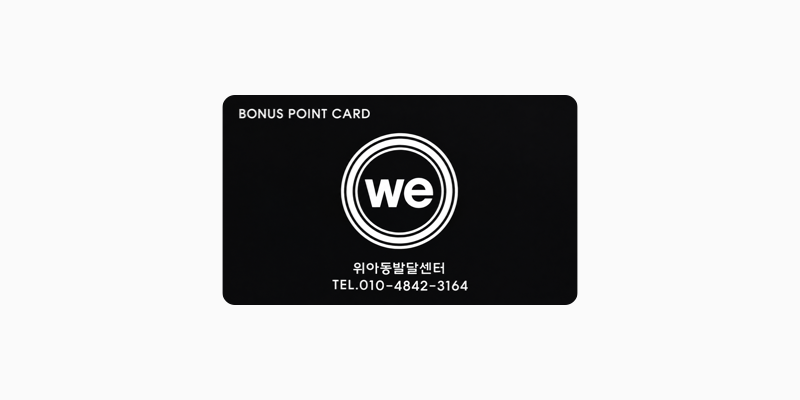
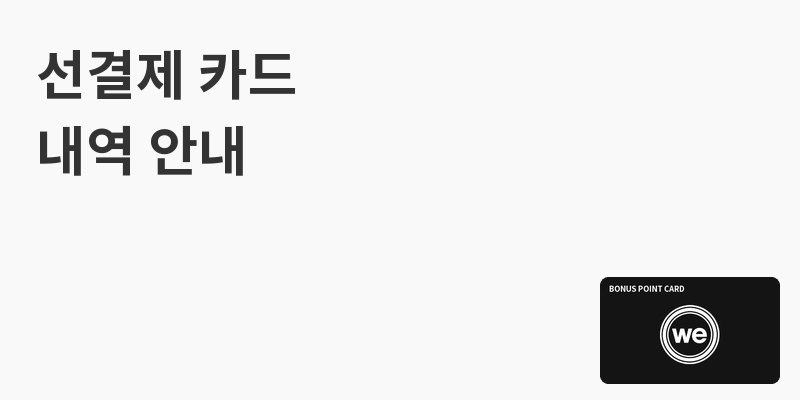
알림톡 템플릿 심사 올리기 화면, 선결제 카드 텍스트혼합형 그림, 빈타임 있을 때 고정 아이 살리기 막기

diff --git a/src/app/admin/alimtalk-templates/page.tsx b/src/app/admin/alimtalk-templates/page.tsx
@@ -1,0 +1,158 @@
+'use client';
+
+import { useCallback, useEffect, useMemo, useState } from 'react';
+import { useAdmin } from '@/components/AdminContext';
+import { supabase } from '@/lib/supabaseClient';
+import { getMessageTemplates, toRows, type MessageSpec } from '@/lib/messages';
+import { getAlimtalkTemplateIds, saveAlimtalkTemplateId } from '@/lib/leave';
+import { askConfirm, showAlert } from '@/lib/dialog';
+
+// 알림톡 템플릿 심사 올리기 (관리자) — 메시지 모양 화면에 적어 둔 알림들을 솔라피에 한 번에 등록하고 카카오 검수 요청.
+// 솔라피 템플릿 이름 끝의 [알림 종류] 로 사이트 알림과 짝을 짓는다. 통과(APPROVED)하면 템플릿 ID를 자동 저장 → 바로 보낼 수 있다.
+// 수업 일정 알림은 수업 개수(1~8개)마다 따로 — lesson_tomorrow_1 ~ lesson_tomorrow_8.
+
+type Row = { key: string; label: string; spec: MessageSpec };
+type Remote = { templateId: string; name: string; status: string; dateCreated?: string; comment: string };
+
+const STATUS: Record<string, { label: string; cls: string }> = {
+  USING: { label: '사용 중', cls: 'bg-[#ecfdf5] text-[#047857]' },
+  APPROVED: { label: '통과', cls: 'bg-[#ecfdf5] text-[#047857]' },
+  INSPECTING: { label: '심사 중', cls: 'bg-[#eff6ff] text-[#1d4ed8]' },
+  PENDING: { label: '등록만 됨', cls: 'bg-[#fffbeb] text-[#92400e]' },
+  REJECTED: { label: '반려', cls: 'bg-[#fef2f2] text-[#b91c1c]' },
+  NONE: { label: '안 올림', cls: 'bg-[#f4f4f5] text-[#71717a]' },
+};
+
+const nameOf = (r: Row) => `${r.label} [${r.key}]`;
+
+async function api(method: 'GET' | 'POST', body?: unknown) {
+  const { data } = await supabase.auth.getSession();
+  const res = await fetch('/api/alimtalk/templates', {
+    method,
+    headers: { 'Content-Type': 'application/json', ...(data.session ? { Authorization: `Bearer ${data.session.access_token}` } : {}) },
+    ...(body ? { body: JSON.stringify(body) } : {}),
+  });
+  const j = await res.json().catch(() => ({}));
+  if (!res.ok) throw new Error(j.error ?? `오류 ${res.status}`);
+  return j;
+}
+
+/** 수업 일정 알림 → 1개용 ~ 8개용 */
+function expand(rows: Row[]): Row[] {
+  return rows.flatMap(r => {
+    if (r.key !== 'lesson_tomorrow') return [r];
+    const head = r.spec.items.filter(i => !/^수업\s*\d+$/.test(i.name.trim()));
+    return Array.from({ length: 8 }, (_, k) => {
+      const n = k + 1;
+      const lessons = Array.from({ length: n }, (_, j) => ({ name: `수업 ${j + 1}`, value: `#{수업${j + 1}}` }));
+      return { key: `${r.key}_${n}`, label: `${r.label} ${n}개`, spec: { ...r.spec, items: [...head, ...lessons] } };
+    });
+  });
+}
+
+export default function AlimtalkTemplatesPage() {
+  const { isAdmin } = useAdmin();
+  const [rows, setRows] = useState<Row[]>([]);
+  const [remote, setRemote] = useState<Remote[]>([]);
+  const [savedIds, setSavedIds] = useState<Record<string, string>>({});
+  const [picked, setPicked] = useState<Set<string>>(new Set());
+  const [loading, setLoading] = useState(true);
+  const [busy, setBusy] = useState(false);
+  const [failed, setFailed] = useState('');
+
+  const load = useCallback(async () => {
+    setLoading(true); setFailed('');
+    try {
+      const saved = await getMessageTemplates().catch(() => []);
+      setRows(expand(toRows(saved).map(r => ({ key: r.id, label: r.label, spec: r.spec }))));
+      const [ids, list] = await Promise.all([getAlimtalkTemplateIds().catch(() => ({} as Record<string, string>)), api('GET')]);
+      const tpls = list.templates as Remote[];
+      // 통과했는데 아직 저장 안 된 ID → 저장 (이제 그 알림은 자동으로 간다)
+      for (const t of tpls) {
+        const key = t.name.match(/\[([\w-]+)\]\s*$/)?.[1];
+        if (key && t.status === 'APPROVED' && ids[key] !== t.templateId && !tpls.some(o => o.name === t.name && o.status === 'APPROVED' && (o.dateCreated ?? '') > (t.dateCreated ?? ''))) {
+          await saveAlimtalkTemplateId(key, t.templateId).then(() => { ids[key] = t.templateId; }).catch(() => {});
+        }
+      }
+      setSavedIds({ ...ids }); setRemote(tpls);
+    } catch (e) {
+      setFailed((e as Error).message);
+    } finally {
+      setLoading(false);
+    }
+  }, []);
+  useEffect(() => { if (isAdmin) load(); }, [isAdmin, load]);
+
+  // 알림마다 상태 — 저장된 ID가 있으면 사용 중, 없으면 솔라피에 올린 것 중 가장 최근 것
+  const statusOf = useMemo(() => {
+    const m: Record<string, { code: string; remote?: Remote }> = {};
+    for (const r of rows) {
+      const mine = remote.filter(t => t.name.endsWith(`[${r.key}]`)).sort((a, b) => (b.dateCreated ?? '').localeCompare(a.dateCreated ?? ''));
+      if (savedIds[r.key]) m[r.key] = { code: 'USING', remote: remote.find(t => t.templateId === savedIds[r.key]) };
+      else m[r.key] = mine[0] ? { code: mine[0].status, remote: mine[0] } : { code: 'NONE' };
+    }
+    return m;
+  }, [rows, remote, savedIds]);
+  const canPick = (key: string) => ['NONE', 'REJECTED'].includes(statusOf[key]?.code);
+
+  if (!isAdmin) return <p className="text-center text-[14px] text-[#aaa] py-32">관리자만 볼 수 있는 화면이에요.</p>;
+
+  const pickable = rows.filter(r => canPick(r.key));
+  const toggle = (key: string) => setPicked(p => { const n = new Set(p); if (n.has(key)) n.delete(key); else n.add(key); return n; });
+
+  const submit = async () => {
+    const list = rows.filter(r => picked.has(r.key) && canPick(r.key));
+    if (!list.length) return;
+    if (!(await askConfirm(`템플릿 ${list.length}개를 솔라피에 등록하고 카카오 검수를 요청할까요?\n\n${list.map(r => `· ${r.label}`).join('\n')}\n\n검수는 영업일 1~3일 걸려요. 통과하면 이 화면에서 자동으로 저장돼요.`, '심사 올리기'))) return;
+    setBusy(true);
+    try {
+      const { results } = await api('POST', { items: list.map(r => ({ key: r.key, name: nameOf(r), spec: r.spec })) }) as { results: { key: string; ok: boolean; error?: string }[] };
+      const bad = results.filter(r => !r.ok);
+      const label = (k: string) => rows.find(r => r.key === k)?.label ?? k;
+      await showAlert(`심사 요청 ${results.length - bad.length}개 완료${bad.length ? `\n\n안 된 것 ${bad.length}개:\n${bad.map(b => `· ${label(b.key)} — ${b.error}`).join('\n')}` : ''}`);
+      setPicked(new Set());
+      await load();
+    } catch (e) {
+      await showAlert(`올리지 못했어요.\n${(e as Error).message}`);
+    } finally {
+      setBusy(false);
+    }
+  };
+
+  return (
+    <div className="max-w-[920px] mx-auto px-5 pt-8 pb-16 fade-up">
+      <h1 className="display-heading mb-2">알림톡 심사 올리기</h1>
+      <p className="text-[12px] text-[#888] mb-6 leading-[1.8]">
+        메시지 모양 화면에 적어 둔 알림을 솔라피에 등록하고 카카오 검수를 한 번에 요청해요.<br />
+        카테고리·We 로고 그림은 이미 통과한 &ldquo;시간표 신청 확정/취소&rdquo; 템플릿과 똑같이 올라가요. 통과하면 이 화면을 열 때 ID가 자동으로 저장돼요.
+      </p>
+      {failed && <p className="mb-4 whitespace-pre-line text-[13px] rounded-xl px-4 py-3 bg-[#fef2f2] text-[#b91c1c]">{failed}</p>}
+      <div className="flex items-center gap-3 mb-3">
+        <button type="button" disabled={loading || !pickable.length} onClick={() => setPicked(picked.size === pickable.length ? new Set() : new Set(pickable.map(r => r.key)))}
+          className="text-[12px] px-3 py-1 rounded-full border border-[#ddd] disabled:opacity-40">{picked.size && picked.size === pickable.length ? '모두 풀기' : '안 올린 것 모두 고르기'}</button>
+        <button type="button" onClick={load} disabled={loading} className="text-[12px] px-3 py-1 rounded-full border border-[#ddd] disabled:opacity-40">{loading ? '불러오는 중…' : '상태 새로 보기'}</button>
+        <button type="button" onClick={submit} disabled={busy || !picked.size}
+          className="ml-auto text-[13px] px-4 py-2 rounded-full bg-[var(--brand)] text-white disabled:opacity-40">{busy ? '올리는 중…' : `선택한 ${picked.size}개 심사 올리기`}</button>
+      </div>
+      <ul className="divide-y divide-[#eee] border-y border-[#eee]">
+        {rows.map(r => {
+          const st = statusOf[r.key] ?? { code: 'NONE' };
+          const badge = STATUS[st.code] ?? { label: st.code, cls: 'bg-[#f4f4f5] text-[#71717a]' };
+          return (
+            <li key={r.key} className="py-3 flex items-start gap-3">
+              <input type="checkbox" className="mt-1" disabled={!canPick(r.key)} checked={picked.has(r.key)} onChange={() => toggle(r.key)} />
+              <div className="flex-1 min-w-0">
+                <p className="text-[14px]">{r.label}</p>
+                <p className="text-[11px] text-[#aaa] truncate">{r.spec.title} · 항목 {r.spec.items.length}줄{r.spec.image === 'card' ? ' · 선결제 카드 그림' : r.spec.image === 'logo' ? ' · We 로고' : ''}{r.spec.button.name ? ` · 버튼 ${r.spec.button.name}` : ''}</p>
+                {st.code === 'REJECTED' && st.remote?.comment && <p className="mt-1 whitespace-pre-line text-[12px] text-[#b91c1c]">반려 사유: {st.remote.comment}</p>}
+                {st.code === 'PENDING' && <p className="mt-1 text-[12px] text-[#92400e]">솔라피에 등록만 되고 검수 요청이 안 됐어요 — 솔라피 콘솔에서 [검수 요청]을 눌러 주세요.</p>}
+              </div>
+              <span className={`shrink-0 text-[11px] px-2 py-0.5 rounded-full ${badge.cls}`}>{badge.label}</span>
+            </li>
+          );
+        })}
+      </ul>
+      <p className="mt-4 text-[11px] text-[#aaa] leading-[1.8]">반려된 알림은 메시지 모양 화면에서 고친 뒤, 여기서 다시 골라 올리면 돼요.</p>
+    </div>
+  );
+}

diff --git a/src/app/api/alimtalk/templates/route.ts b/src/app/api/alimtalk/templates/route.ts
@@ -1,0 +1,104 @@
+import { supabaseFor } from '@/lib/supabaseServer';
+import { solapiFetch, solapiReady } from '@/lib/solapi';
+import type { MessageSpec } from '@/lib/messages';
+
+// 알림톡 템플릿 심사 (관리자만)
+//   GET  — 솔라피에 올린 템플릿 목록(이름 · 상태 · 반려 사유)
+//   POST — { items: [{ key, name, spec }] } 를 솔라피에 등록하고 바로 카카오 검수 요청
+// 카테고리 · 메시지 유형 · We 로고 그림은 이미 통과한 "시간표 신청 확정/취소" 템플릿(booking_result)을 그대로 따른다.
+// 선결제 카드 그림은 사이트의 /alimtalk/card.png 를 솔라피에 올려서 쓴다.
+
+type Item = { key: string; name: string; spec: MessageSpec };
+type Tpl = {
+  templateId: string; name: string; status: string; categoryCode?: string; messageType?: string; emphasizeType?: string;
+  imageId?: string | null; header?: string | null; highlight?: { title?: string; description?: string; imageId?: string | null } | null;
+  comments?: { content?: string; dateCreated?: string }[]; dateCreated?: string;
+};
+
+async function guard(request: Request) {
+  const db = supabaseFor(request);
+  const { data: isAdmin } = await db.rpc('is_admin');
+  if (!isAdmin) return { db, error: Response.json({ error: '관리자만 할 수 있어요' }, { status: 403 }) };
+  if (!solapiReady()) return { db, error: Response.json({ error: '솔라피 키가 없어요 — 실제 사이트(we-center.vercel.app)에서 해 주세요' }, { status: 400 }) };
+  return { db, error: null };
+}
+
+const errText = (d: { errorMessage?: string; message?: string; errorCode?: string }) => d?.errorMessage ?? d?.message ?? d?.errorCode ?? '알 수 없는 오류';
+
+export async function GET(request: Request) {
+  const { error } = await guard(request);
+  if (error) return error;
+  const list: Tpl[] = [];
+  let next = '';
+  for (let i = 0; i < 10; i++) {
+    const r = await solapiFetch(`/kakao/v2/templates?limit=100${next ? `&startKey=${encodeURIComponent(next)}` : ''}`);
+    if (!r.ok) return Response.json({ error: errText(r.data) }, { status: 502 });
+    list.push(...((r.data.templateList ?? []) as Tpl[]));
+    next = r.data.nextKey ?? '';
+    if (!next) break;
+  }
+  return Response.json({
+    templates: list.map(t => ({
+      templateId: t.templateId, name: t.name, status: t.status, dateCreated: t.dateCreated,
+      comment: [...(t.comments ?? [])].reverse().find(c => c.content)?.content ?? '',
+    })),
+  });
+}
+
+export async function POST(request: Request) {
+  const { db, error } = await guard(request);
+  if (error) return error;
+  const { items } = (await request.json().catch(() => ({}))) as { items?: Item[] };
+  if (!items?.length) return Response.json({ error: '올릴 템플릿을 골라 주세요' }, { status: 400 });
+
+  // 기준 = 이미 통과한 booking_result 템플릿
+  const { data: refRow } = await db.from('alimtalk_templates').select('template_id').eq('id', 'booking_result').maybeSingle();
+  if (!refRow?.template_id) return Response.json({ error: '통과한 "시간표 신청 확정/취소" 템플릿 ID가 저장돼 있어야 해요 (테스트 보내기 화면에서 [ID 저장])' }, { status: 400 });
+  const ref = await solapiFetch(`/kakao/v2/templates/${refRow.template_id}`);
+  if (!ref.ok) return Response.json({ error: `기준 템플릿을 못 읽었어요 — ${errText(ref.data)}` }, { status: 502 });
+  const base = ref.data as Tpl;
+  const logoImageId = base.imageId ?? base.highlight?.imageId ?? null;
+
+  // 선결제 카드 그림 — 필요할 때 한 번만 올린다
+  let cardImageId: string | null = null;
+  const cardImage = async () => {
+    if (cardImageId) return cardImageId;
+    const png = await fetch(new URL('/alimtalk/card.png', request.url), { cache: 'no-store' });
+    if (!png.ok) throw new Error('선결제 카드 그림(/alimtalk/card.png)을 못 읽었어요');
+    const file = Buffer.from(await png.arrayBuffer()).toString('base64');
+    const up = await solapiFetch('/storage/v1/files', { method: 'POST', body: { file, type: 'ATA', name: 'prepaid-card.png' } });
+    if (!up.ok || !up.data.fileId) throw new Error(`카드 그림 올리기 실패 — ${errText(up.data)}`);
+    cardImageId = up.data.fileId as string;
+    return cardImageId;
+  };
+
+  const results: { key: string; ok: boolean; templateId?: string; error?: string }[] = [];
+  for (const it of items) {
+    try {
+      const s = it.spec;
+      const imageId = s.image === 'card' ? await cardImage() : s.image === 'logo' ? logoImageId : null;
+      const body = {
+        channelId: process.env.SOLAPI_PFID,
+        name: it.name,
+        content: s.body,
+        categoryCode: base.categoryCode,
+        messageType: base.messageType ?? 'BA',
+        emphasizeType: 'ITEM_LIST',
+        ...(base.header ? { header: s.title } : { highlight: { title: s.title, description: s.sub } }),
+        item: { list: s.items.filter(i => i.name.trim() && i.value.trim()).map(i => ({ title: i.name, description: i.value })) },
+        ...(imageId ? { imageId } : {}),
+        buttons: s.button.name.trim() ? [{ buttonType: 'WL', buttonName: s.button.name, linkMo: s.button.url, linkPc: s.button.url }] : [],
+      };
+      const made = await solapiFetch('/kakao/v2/templates', { method: 'POST', body });
+      if (!made.ok || !made.data.templateId) { results.push({ key: it.key, ok: false, error: `등록 실패 — ${errText(made.data)}` }); continue; }
+      const templateId = made.data.templateId as string;
+      const insp = await solapiFetch(`/kakao/v2/templates/${templateId}/inspection`, {
+        method: 'PUT', body: { comment: '소아재활센터 이용 보호자에게 보내는 수업·이용 안내(정보성) 메시지입니다.' },
+      });
+      results.push(insp.ok ? { key: it.key, ok: true, templateId } : { key: it.key, ok: false, templateId, error: `등록은 됐지만 검수 요청 실패 — ${errText(insp.data)}` });
+    } catch (e) {
+      results.push({ key: it.key, ok: false, error: (e as Error).message });
+    }
+  }
+  return Response.json({ results });
+}

diff --git a/src/components/TimetableView.tsx b/src/components/TimetableView.tsx
@@ -968,6 +968,7 @@ export default function TimetableView({ testChildName, fixedCenter }: { testChil
           onClose={() => setEditing(null)}
           onSave={(input, weekly) => stage(editing, input, weekly)}
           onRestoreCancel={mode === 'day' ? () => restoreCancel(editing) : undefined}
+          openBusy={mode === 'day' && editing.side === 'fixed' && !['empty', 'none'].includes(cellOf(view.open, editing.teacher.id, editing.time).status)}
         /></Portal>
       )}
 
@@ -1129,7 +1130,7 @@ function ChildPicker({ picking, kids, onPick, onSave, onMore, onClose }: {
   );
 }
 
-function CellEditor({ editing, methods, mode, dayLabel, kids, onClose, onSave, onRestoreCancel }: {
+function CellEditor({ editing, methods, mode, dayLabel, kids, onClose, onSave, onRestoreCancel, openBusy }: {
   editing: Editing;
   /** 이 센터에서 쓰는 결제 (수색 굳센 / 의정부 장맞춤) */
   methods: typeof PAY_METHODS;
@@ -1141,14 +1142,18 @@ function CellEditor({ editing, methods, mode, dayLabel, kids, onClose, onSave, o
   onSave: (input: CellInput | 'reset', from?: boolean) => void;
   /** 보호자가 취소한 수업 되돌리기 (날짜별 화면) */
   onRestoreCancel?: () => void;
+  /** 날짜별 고정 칸 — 같은 시간 빈타임에 이미 수업(아이·?·x)이 있으면 고정 아이를 다시 살릴 수 없다 */
+  openBusy?: boolean;
 }) {
+  // 빈타임에 수업이 있는데 고정 아이를 살리려 할 때
+  const blockedByOpen = () => showAlert('같은 시간 빈타임에 다른 수업이 있어서 고정 아이 수업을 살릴 수 없어요.\n먼저 빈타임 칸을 비운 뒤 다시 해 주세요.');
   const { teacher, time, side, cell } = editing;
   // 보호자가 마이페이지에서 취소한 칸 — 줄 + "취소 · 보호자"
   const guardianCancelled = cell.status === 'child' && cell.moved && !!cell.note?.startsWith('취소');
   const restoreBox = guardianCancelled && onRestoreCancel ? (
     <div className="rounded-lg bg-[#fef2f2] px-3 py-2.5 space-y-2">
       <p className="text-[12px] leading-[1.7] text-[#b91c1c]">{cell.note?.includes('보호자') ? '보호자가 마이페이지에서 취소한 수업이에요.' : '취소된 수업이에요(빈타임에 다른 수업을 넣어 취소됨).'} 되돌린 뒤 [스케줄 변경 완료]를 눌러야 반영돼요. (취소할 때 지워진 '선택' 결제방식은 다시 골라 주세요)</p>
-      <button onClick={onRestoreCancel} className="text-[13px] px-3 py-1.5 rounded-full border border-[#b91c1c] text-[#b91c1c] bg-white hover:bg-[#fff5f5]">취소 되돌리기 (취소 전으로)</button>
+      <button onClick={() => (openBusy ? blockedByOpen() : onRestoreCancel?.())} className="text-[13px] px-3 py-1.5 rounded-full border border-[#b91c1c] text-[#b91c1c] bg-white hover:bg-[#fff5f5]">취소 되돌리기 (취소 전으로)</button>
     </div>
   ) : null;
   // 이름 칸은 "이름숫자"(동명이인 구분)로 보여 주고 고른다 — 저장할 땐 이름과 숫자를 나눠 둔 명단 아이로
@@ -1230,7 +1235,7 @@ function CellEditor({ editing, methods, mode, dayLabel, kids, onClose, onSave, o
             </button>
             {/* 이 날만 결석 — 고정 수업은 그대로, 그날 칸에만 결석(x) */}
             {mode === 'day' && cell.status === 'child' && !guardianCancelled && (
-              <button onClick={() => onSave({ status: 'child', childId: cell.childId ?? null, name: cell.name, payment: cell.payment, kind: cell.kind ?? null, absent: !cell.absent, moved: cell.moved, note: cell.note })}
+              <button onClick={() => (cell.absent && openBusy ? blockedByOpen() : onSave({ status: 'child', childId: cell.childId ?? null, name: cell.name, payment: cell.payment, kind: cell.kind ?? null, absent: !cell.absent, moved: cell.moved, note: cell.note }))}
                 className={`${chip} ${cell.absent ? 'border-[#ddd] text-[#555]' : 'border-[#a1a1aa] text-[#52525b]'}`}>
                 {cell.absent ? '결석 취소' : '이 날만 결석'}
               </button>

diff --git a/src/lib/solapi.ts b/src/lib/solapi.ts
@@ -5,7 +5,8 @@ import { createHmac, randomBytes } from 'node:crypto';
 //   SOLAPI_PFID                        — 연동한 카카오 채널(발신 프로필) ID (KA01PF…)
 //   SOLAPI_FROM                        — 솔라피에 등록한 발신번호(숫자만). 알림톡이 안 가면 문자로 대신 보낼 때 쓴다
 
-const API = 'https://api.solapi.com/messages/v4/send';
+const BASE = 'https://api.solapi.com';
+const API = `${BASE}/messages/v4/send`;
 
 export function solapiReady() {
   return !!(process.env.SOLAPI_API_KEY && process.env.SOLAPI_API_SECRET && process.env.SOLAPI_PFID);
@@ -36,6 +37,18 @@ export async function sendAlimtalk(opts: { to: string; templateId: string; varia
     method: 'POST',
     headers: { Authorization: auth(), 'Content-Type': 'application/json' },
     body: JSON.stringify({ message }),
+    cache: 'no-store',
+  });
+  const data = await res.json().catch(() => ({}));
+  return { ok: res.ok, status: res.status, data };
+}
+
+/** 솔라피 API 아무거나 — path 는 /kakao/v2/templates 처럼. 결과는 { ok, status, data } */
+export async function solapiFetch(path: string, init: { method?: string; body?: unknown } = {}) {
+  const res = await fetch(`${BASE}${path}`, {
+    method: init.method ?? 'GET',
+    headers: { Authorization: auth(), 'Content-Type': 'application/json' },
+    ...(init.body !== undefined ? { body: JSON.stringify(init.body) } : {}),
     cache: 'no-store',
   });
   const data = await res.json().catch(() => ({}));

diff --git a/src/components/Header.tsx b/src/components/Header.tsx
@@ -53,7 +53,7 @@ export default function Header() {
     { label: '선생님 시간표', items: [{ href: '/teacher/timetable', label: '수색' }, { href: '/teacher/timetable/uijeongbu', label: '의정부' }] },
     // 수업 현황 — 전체 관리자만 (직원 계정엔 안 보인다)
     ...(canSeeStats ? [{ label: '수업 현황', items: [{ href: '/admin/dashboard', label: '수업 현황' }] }] : []),
-    { label: '알림 메시지', items: [{ href: '/admin/messages', label: '메시지 모양' }, { href: '/admin/alimtalk-test', label: '테스트 보내기' }] },
+    { label: '알림 메시지', items: [{ href: '/admin/messages', label: '메시지 모양' }, { href: '/admin/alimtalk-templates', label: '심사 올리기' }, { href: '/admin/alimtalk-test', label: '테스트 보내기' }] },
     { label: '알림', items: [{ href: '/admin/alerts', label: '알림' }] },
   ];
   // 관리자 알림 — 아직 안 본 수(빨간 숫자). 1분마다, 알림 화면에서 확인하면 바로 새로
